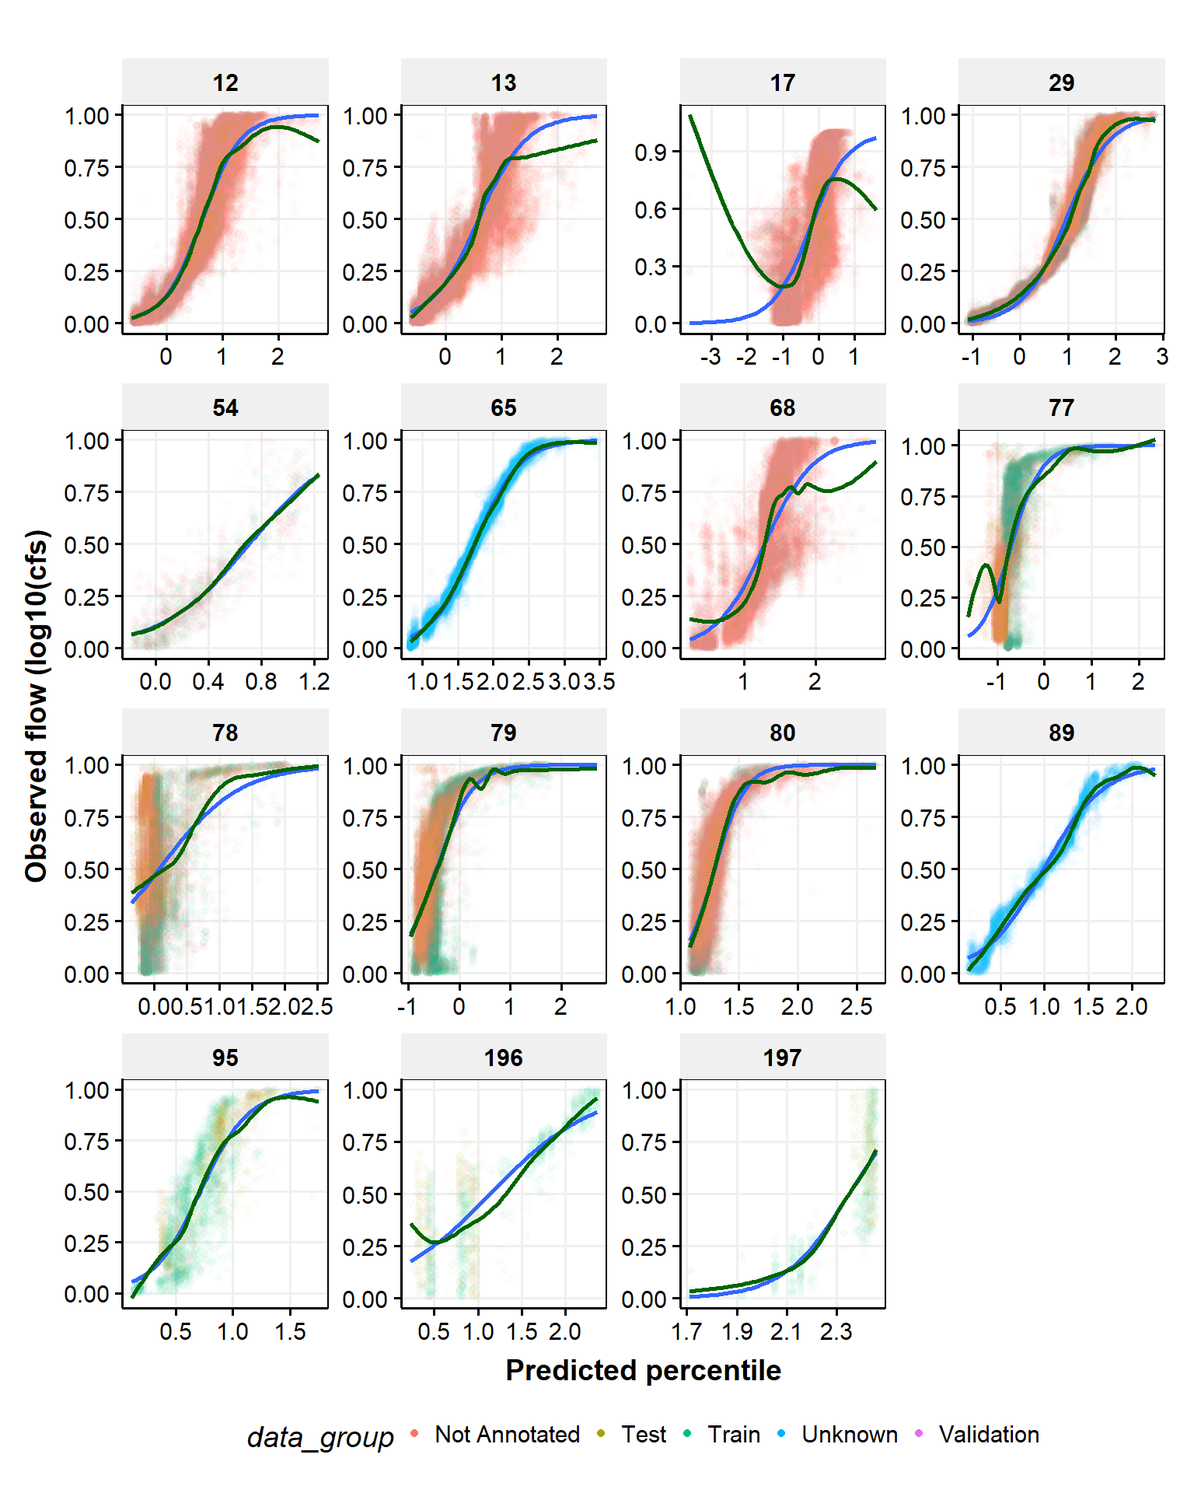
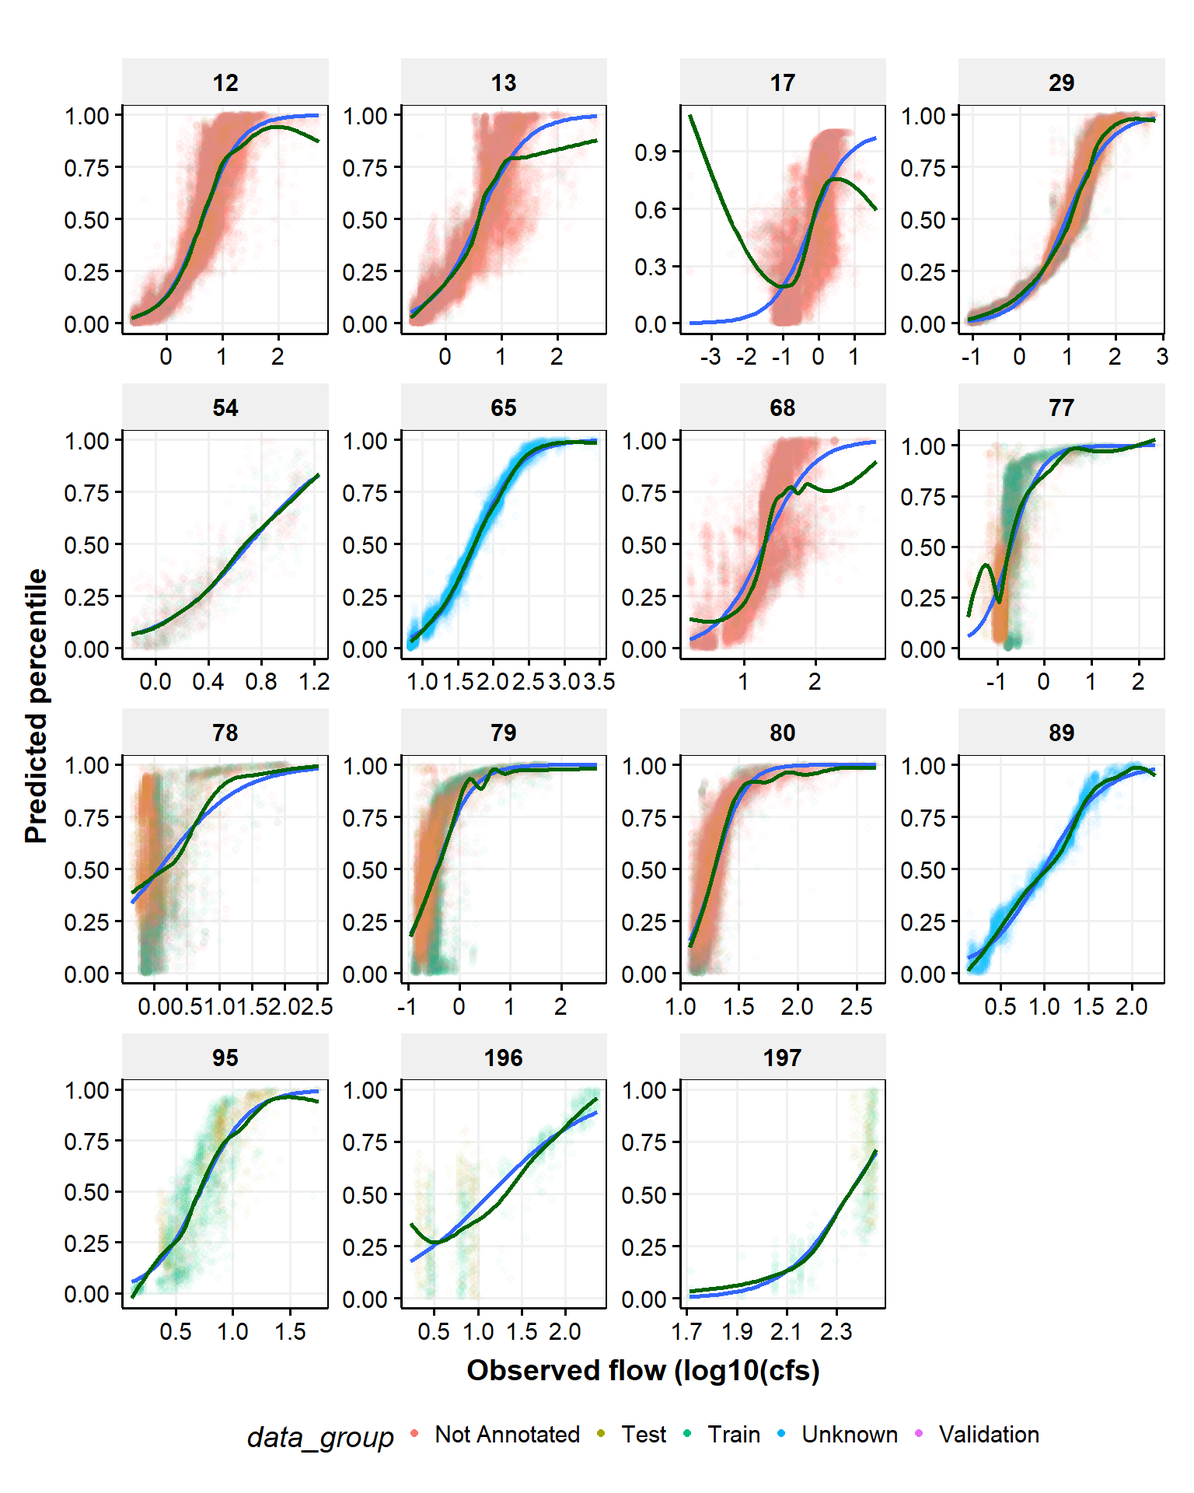
add filtered stations

Changed region(s): [[0.0, 0.3438, 0.0625, 0.5938], [0.375, 0.9062, 0.6875, 0.9375]]

diff --git a/docs/realData.html b/docs/realData.html
@@ -219,7 +219,7 @@ pre > code.sourceCode > span > a:first-child::before { text-decoration: underlin
 <section id="plot-raw-data" class="level2" data-number="2.2">
 <h2 data-number="2.2" class="anchored" data-anchor-id="plot-raw-data"><span class="header-section-number">2.2</span> Plot raw data</h2>
 <p>Logistic is blue line and gam is green line. Regressions are across data_group. Grouped by site.</p>
-<div class="cell" data-hash="realData_cache/html/plotRealData_356ca8d241ffc1034c24c87a13526d26">
+<div class="cell" data-hash="realData_cache/html/plotRealData_578f52c975b9ff7d29b6fa3e8dc725b2">
 <details>
 <summary>Code</summary>
 <div class="sourceCode cell-code" id="cb3"><pre class="sourceCode r code-with-copy"><code class="sourceCode r"><span id="cb3-1"><a href="#cb3-1" aria-hidden="true" tabindex="-1"></a><span class="fu">ggplot</span>(d <span class="sc">|&gt;</span> <span class="fu">filter</span>(<span class="sc">!</span><span class="fu">is.na</span>(flow_cfs_log10)), <span class="fu">aes</span>(flow_cfs_log10, rank_pred)) <span class="sc">+</span></span>
@@ -227,12 +227,37 @@ pre > code.sourceCode > span > a:first-child::before { text-decoration: underlin
 <span id="cb3-3"><a href="#cb3-3" aria-hidden="true" tabindex="-1"></a>  <span class="fu">guides</span>(<span class="at">color =</span> <span class="fu">guide_legend</span>(<span class="at">override.aes =</span> <span class="fu">list</span>(<span class="at">alpha =</span> <span class="dv">1</span>))) <span class="sc">+</span></span>
 <span id="cb3-4"><a href="#cb3-4" aria-hidden="true" tabindex="-1"></a>  <span class="fu">geom_smooth</span>(<span class="at">method =</span> <span class="st">"glm"</span>, <span class="at">method.args=</span> <span class="fu">list</span>(<span class="at">family=</span><span class="st">"binomial"</span>), <span class="at">se =</span> <span class="cn">FALSE</span>) <span class="sc">+</span></span>
 <span id="cb3-5"><a href="#cb3-5" aria-hidden="true" tabindex="-1"></a>  <span class="fu">geom_smooth</span>(<span class="at">color =</span> <span class="st">"darkgreen"</span>, <span class="at">se =</span> <span class="cn">FALSE</span>) <span class="sc">+</span></span>
-<span id="cb3-6"><a href="#cb3-6" aria-hidden="true" tabindex="-1"></a>  <span class="fu">labs</span>(<span class="at">x =</span> <span class="st">"Predicted percentile"</span>, <span class="at">y =</span> <span class="st">"Observed flow (log10(cfs)"</span>) <span class="sc">+</span></span>
+<span id="cb3-6"><a href="#cb3-6" aria-hidden="true" tabindex="-1"></a>  <span class="fu">labs</span>(<span class="at">y =</span> <span class="st">"Predicted percentile"</span>, <span class="at">x =</span> <span class="st">"Observed flow (log10(cfs)"</span>) <span class="sc">+</span></span>
 <span id="cb3-7"><a href="#cb3-7" aria-hidden="true" tabindex="-1"></a>  <span class="fu">theme_publication</span>() <span class="sc">+</span></span>
 <span id="cb3-8"><a href="#cb3-8" aria-hidden="true" tabindex="-1"></a>  <span class="fu">facet_wrap</span>(<span class="sc">~</span>station_id, <span class="at">scales =</span> <span class="st">"free"</span>)</span></code><button title="Copy to Clipboard" class="code-copy-button"><i class="bi"></i></button></pre></div>
 </details>
 <div class="cell-output-display">
 <p><img src="realData_files/figure-html/plotRealData-1.png" class="img-fluid" width="768"></p>
+</div>
+</div>
+<p>Pick sites that seem to have enough data to get predictions</p>
+<div class="cell" data-hash="realData_cache/html/filterSites_fba5d4454bc2bcc5d3436083b4334add">
+<details>
+<summary>Code</summary>
+<div class="sourceCode cell-code" id="cb4"><pre class="sourceCode r code-with-copy"><code class="sourceCode r"><span id="cb4-1"><a href="#cb4-1" aria-hidden="true" tabindex="-1"></a>stationsToUse <span class="ot">&lt;-</span> <span class="fu">c</span>(<span class="dv">12</span>, <span class="dv">29</span>, <span class="dv">65</span>, <span class="dv">80</span>)</span>
+<span id="cb4-2"><a href="#cb4-2" aria-hidden="true" tabindex="-1"></a></span>
+<span id="cb4-3"><a href="#cb4-3" aria-hidden="true" tabindex="-1"></a>d2 <span class="ot">&lt;-</span> d <span class="sc">|&gt;</span> </span>
+<span id="cb4-4"><a href="#cb4-4" aria-hidden="true" tabindex="-1"></a>  <span class="fu">filter</span>(</span>
+<span id="cb4-5"><a href="#cb4-5" aria-hidden="true" tabindex="-1"></a>    <span class="sc">!</span><span class="fu">is.na</span>(flow_cfs_log10), </span>
+<span id="cb4-6"><a href="#cb4-6" aria-hidden="true" tabindex="-1"></a>    station_id <span class="sc">%in%</span> stationsToUse</span>
+<span id="cb4-7"><a href="#cb4-7" aria-hidden="true" tabindex="-1"></a>  )</span>
+<span id="cb4-8"><a href="#cb4-8" aria-hidden="true" tabindex="-1"></a></span>
+<span id="cb4-9"><a href="#cb4-9" aria-hidden="true" tabindex="-1"></a><span class="fu">ggplot</span>(d2, <span class="fu">aes</span>(flow_cfs_log10, rank_pred)) <span class="sc">+</span></span>
+<span id="cb4-10"><a href="#cb4-10" aria-hidden="true" tabindex="-1"></a>  <span class="fu">geom_point</span>(<span class="fu">aes</span>(<span class="at">color =</span> data_group), <span class="at">alpha =</span> <span class="fl">0.025</span>) <span class="sc">+</span></span>
+<span id="cb4-11"><a href="#cb4-11" aria-hidden="true" tabindex="-1"></a>  <span class="fu">guides</span>(<span class="at">color =</span> <span class="fu">guide_legend</span>(<span class="at">override.aes =</span> <span class="fu">list</span>(<span class="at">alpha =</span> <span class="dv">1</span>))) <span class="sc">+</span></span>
+<span id="cb4-12"><a href="#cb4-12" aria-hidden="true" tabindex="-1"></a>  <span class="fu">geom_smooth</span>(<span class="at">method =</span> <span class="st">"glm"</span>, <span class="at">method.args=</span> <span class="fu">list</span>(<span class="at">family=</span><span class="st">"binomial"</span>), <span class="at">se =</span> <span class="cn">FALSE</span>) <span class="sc">+</span></span>
+<span id="cb4-13"><a href="#cb4-13" aria-hidden="true" tabindex="-1"></a>  <span class="fu">geom_smooth</span>(<span class="at">color =</span> <span class="st">"darkgreen"</span>, <span class="at">se =</span> <span class="cn">FALSE</span>) <span class="sc">+</span></span>
+<span id="cb4-14"><a href="#cb4-14" aria-hidden="true" tabindex="-1"></a>  <span class="fu">labs</span>(<span class="at">y =</span> <span class="st">"Predicted percentile"</span>, <span class="at">x =</span> <span class="st">"Observed flow (log10(cfs)"</span>) <span class="sc">+</span></span>
+<span id="cb4-15"><a href="#cb4-15" aria-hidden="true" tabindex="-1"></a>  <span class="fu">theme_publication</span>() <span class="sc">+</span></span>
+<span id="cb4-16"><a href="#cb4-16" aria-hidden="true" tabindex="-1"></a>  <span class="fu">facet_wrap</span>(<span class="sc">~</span>station_id, <span class="at">scales =</span> <span class="st">"free"</span>)</span></code><button title="Copy to Clipboard" class="code-copy-button"><i class="bi"></i></button></pre></div>
+</details>
+<div class="cell-output-display">
+<p><img src="realData_files/figure-html/filterSites-1.png" class="img-fluid" width="768"></p>
 </div>
 </div>
 
@@ -653,42 +678,65 @@ window.document.addEventListener("DOMContentLoaded", function (event) {
       </a>
   </div>
 </nav><div class="modal fade" id="quarto-embedded-source-code-modal" tabindex="-1" aria-labelledby="quarto-embedded-source-code-modal-label" aria-hidden="true"><div class="modal-dialog modal-dialog-scrollable"><div class="modal-content"><div class="modal-header"><h5 class="modal-title" id="quarto-embedded-source-code-modal-label">Source Code</h5><button class="btn-close" data-bs-dismiss="modal"></button></div><div class="modal-body"><div class="">
-<div class="sourceCode" id="cb4" data-shortcodes="false"><pre class="sourceCode markdown code-with-copy"><code class="sourceCode markdown"><span id="cb4-1"><a href="#cb4-1" aria-hidden="true" tabindex="-1"></a><span class="in">```{r}</span></span>
-<span id="cb4-2"><a href="#cb4-2" aria-hidden="true" tabindex="-1"></a><span class="co">#| label: librariesSim</span></span>
-<span id="cb4-3"><a href="#cb4-3" aria-hidden="true" tabindex="-1"></a></span>
-<span id="cb4-4"><a href="#cb4-4" aria-hidden="true" tabindex="-1"></a><span class="fu">library</span>(FAdist)</span>
-<span id="cb4-5"><a href="#cb4-5" aria-hidden="true" tabindex="-1"></a><span class="fu">library</span>(getPrepareWBData)</span>
-<span id="cb4-6"><a href="#cb4-6" aria-hidden="true" tabindex="-1"></a><span class="fu">library</span>(ggpubr)</span>
-<span id="cb4-7"><a href="#cb4-7" aria-hidden="true" tabindex="-1"></a><span class="fu">library</span>(tidyverse)</span>
-<span id="cb4-8"><a href="#cb4-8" aria-hidden="true" tabindex="-1"></a><span class="in">```</span></span>
-<span id="cb4-9"><a href="#cb4-9" aria-hidden="true" tabindex="-1"></a></span>
-<span id="cb4-10"><a href="#cb4-10" aria-hidden="true" tabindex="-1"></a></span>
-<span id="cb4-11"><a href="#cb4-11" aria-hidden="true" tabindex="-1"></a><span class="fu"># Real data  </span></span>
-<span id="cb4-12"><a href="#cb4-12" aria-hidden="true" tabindex="-1"></a><span class="fu">## Get data</span></span>
-<span id="cb4-15"><a href="#cb4-15" aria-hidden="true" tabindex="-1"></a><span class="in">```{r}</span></span>
-<span id="cb4-16"><a href="#cb4-16" aria-hidden="true" tabindex="-1"></a><span class="co">#| label: getRealData</span></span>
-<span id="cb4-17"><a href="#cb4-17" aria-hidden="true" tabindex="-1"></a></span>
-<span id="cb4-18"><a href="#cb4-18" aria-hidden="true" tabindex="-1"></a>d <span class="ot">&lt;-</span> <span class="fu">read.csv</span>(<span class="st">'./data/in/concatenated_predictions.csv'</span>) <span class="sc">|&gt;</span> </span>
-<span id="cb4-19"><a href="#cb4-19" aria-hidden="true" tabindex="-1"></a>  <span class="fu">mutate</span>(<span class="at">flow_cfs_log10 =</span> <span class="fu">log10</span>(flow_cfs))</span>
-<span id="cb4-20"><a href="#cb4-20" aria-hidden="true" tabindex="-1"></a></span>
-<span id="cb4-21"><a href="#cb4-21" aria-hidden="true" tabindex="-1"></a><span class="in">```</span></span>
-<span id="cb4-22"><a href="#cb4-22" aria-hidden="true" tabindex="-1"></a></span>
-<span id="cb4-23"><a href="#cb4-23" aria-hidden="true" tabindex="-1"></a><span class="fu">## Plot raw data  </span></span>
-<span id="cb4-24"><a href="#cb4-24" aria-hidden="true" tabindex="-1"></a>Logistic is blue line and gam is green line. Regressions are across data_group. Grouped by site.  </span>
-<span id="cb4-27"><a href="#cb4-27" aria-hidden="true" tabindex="-1"></a><span class="in">```{r}</span></span>
-<span id="cb4-28"><a href="#cb4-28" aria-hidden="true" tabindex="-1"></a><span class="co">#| label: plotRealData</span></span>
-<span id="cb4-29"><a href="#cb4-29" aria-hidden="true" tabindex="-1"></a><span class="co">#| fig-height: 10</span></span>
-<span id="cb4-30"><a href="#cb4-30" aria-hidden="true" tabindex="-1"></a></span>
-<span id="cb4-31"><a href="#cb4-31" aria-hidden="true" tabindex="-1"></a><span class="fu">ggplot</span>(d <span class="sc">|&gt;</span> <span class="fu">filter</span>(<span class="sc">!</span><span class="fu">is.na</span>(flow_cfs_log10)), <span class="fu">aes</span>(flow_cfs_log10, rank_pred)) <span class="sc">+</span></span>
-<span id="cb4-32"><a href="#cb4-32" aria-hidden="true" tabindex="-1"></a>  <span class="fu">geom_point</span>(<span class="fu">aes</span>(<span class="at">color =</span> data_group), <span class="at">alpha =</span> <span class="fl">0.025</span>) <span class="sc">+</span></span>
-<span id="cb4-33"><a href="#cb4-33" aria-hidden="true" tabindex="-1"></a>  <span class="fu">guides</span>(<span class="at">color =</span> <span class="fu">guide_legend</span>(<span class="at">override.aes =</span> <span class="fu">list</span>(<span class="at">alpha =</span> <span class="dv">1</span>))) <span class="sc">+</span></span>
-<span id="cb4-34"><a href="#cb4-34" aria-hidden="true" tabindex="-1"></a>  <span class="fu">geom_smooth</span>(<span class="at">method =</span> <span class="st">"glm"</span>, <span class="at">method.args=</span> <span class="fu">list</span>(<span class="at">family=</span><span class="st">"binomial"</span>), <span class="at">se =</span> <span class="cn">FALSE</span>) <span class="sc">+</span></span>
-<span id="cb4-35"><a href="#cb4-35" aria-hidden="true" tabindex="-1"></a>  <span class="fu">geom_smooth</span>(<span class="at">color =</span> <span class="st">"darkgreen"</span>, <span class="at">se =</span> <span class="cn">FALSE</span>) <span class="sc">+</span></span>
-<span id="cb4-36"><a href="#cb4-36" aria-hidden="true" tabindex="-1"></a>  <span class="fu">labs</span>(<span class="at">x =</span> <span class="st">"Predicted percentile"</span>, <span class="at">y =</span> <span class="st">"Observed flow (log10(cfs)"</span>) <span class="sc">+</span></span>
-<span id="cb4-37"><a href="#cb4-37" aria-hidden="true" tabindex="-1"></a>  <span class="fu">theme_publication</span>() <span class="sc">+</span></span>
-<span id="cb4-38"><a href="#cb4-38" aria-hidden="true" tabindex="-1"></a>  <span class="fu">facet_wrap</span>(<span class="sc">~</span>station_id, <span class="at">scales =</span> <span class="st">"free"</span>)</span>
-<span id="cb4-39"><a href="#cb4-39" aria-hidden="true" tabindex="-1"></a></span>
-<span id="cb4-40"><a href="#cb4-40" aria-hidden="true" tabindex="-1"></a><span class="in">```</span></span>
+<div class="sourceCode" id="cb5" data-shortcodes="false"><pre class="sourceCode markdown code-with-copy"><code class="sourceCode markdown"><span id="cb5-1"><a href="#cb5-1" aria-hidden="true" tabindex="-1"></a><span class="in">```{r}</span></span>
+<span id="cb5-2"><a href="#cb5-2" aria-hidden="true" tabindex="-1"></a><span class="co">#| label: librariesSim</span></span>
+<span id="cb5-3"><a href="#cb5-3" aria-hidden="true" tabindex="-1"></a></span>
+<span id="cb5-4"><a href="#cb5-4" aria-hidden="true" tabindex="-1"></a><span class="fu">library</span>(FAdist)</span>
+<span id="cb5-5"><a href="#cb5-5" aria-hidden="true" tabindex="-1"></a><span class="fu">library</span>(getPrepareWBData)</span>
+<span id="cb5-6"><a href="#cb5-6" aria-hidden="true" tabindex="-1"></a><span class="fu">library</span>(ggpubr)</span>
+<span id="cb5-7"><a href="#cb5-7" aria-hidden="true" tabindex="-1"></a><span class="fu">library</span>(tidyverse)</span>
+<span id="cb5-8"><a href="#cb5-8" aria-hidden="true" tabindex="-1"></a><span class="in">```</span></span>
+<span id="cb5-9"><a href="#cb5-9" aria-hidden="true" tabindex="-1"></a></span>
+<span id="cb5-10"><a href="#cb5-10" aria-hidden="true" tabindex="-1"></a></span>
+<span id="cb5-11"><a href="#cb5-11" aria-hidden="true" tabindex="-1"></a><span class="fu"># Real data  </span></span>
+<span id="cb5-12"><a href="#cb5-12" aria-hidden="true" tabindex="-1"></a><span class="fu">## Get data</span></span>
+<span id="cb5-15"><a href="#cb5-15" aria-hidden="true" tabindex="-1"></a><span class="in">```{r}</span></span>
+<span id="cb5-16"><a href="#cb5-16" aria-hidden="true" tabindex="-1"></a><span class="co">#| label: getRealData</span></span>
+<span id="cb5-17"><a href="#cb5-17" aria-hidden="true" tabindex="-1"></a></span>
+<span id="cb5-18"><a href="#cb5-18" aria-hidden="true" tabindex="-1"></a>d <span class="ot">&lt;-</span> <span class="fu">read.csv</span>(<span class="st">'./data/in/concatenated_predictions.csv'</span>) <span class="sc">|&gt;</span> </span>
+<span id="cb5-19"><a href="#cb5-19" aria-hidden="true" tabindex="-1"></a>  <span class="fu">mutate</span>(<span class="at">flow_cfs_log10 =</span> <span class="fu">log10</span>(flow_cfs))</span>
+<span id="cb5-20"><a href="#cb5-20" aria-hidden="true" tabindex="-1"></a></span>
+<span id="cb5-21"><a href="#cb5-21" aria-hidden="true" tabindex="-1"></a><span class="in">```</span></span>
+<span id="cb5-22"><a href="#cb5-22" aria-hidden="true" tabindex="-1"></a></span>
+<span id="cb5-23"><a href="#cb5-23" aria-hidden="true" tabindex="-1"></a><span class="fu">## Plot raw data  </span></span>
+<span id="cb5-24"><a href="#cb5-24" aria-hidden="true" tabindex="-1"></a>Logistic is blue line and gam is green line. Regressions are across data_group. Grouped by site.  </span>
+<span id="cb5-27"><a href="#cb5-27" aria-hidden="true" tabindex="-1"></a><span class="in">```{r}</span></span>
+<span id="cb5-28"><a href="#cb5-28" aria-hidden="true" tabindex="-1"></a><span class="co">#| label: plotRealData</span></span>
+<span id="cb5-29"><a href="#cb5-29" aria-hidden="true" tabindex="-1"></a><span class="co">#| fig-height: 10</span></span>
+<span id="cb5-30"><a href="#cb5-30" aria-hidden="true" tabindex="-1"></a></span>
+<span id="cb5-31"><a href="#cb5-31" aria-hidden="true" tabindex="-1"></a><span class="fu">ggplot</span>(d <span class="sc">|&gt;</span> <span class="fu">filter</span>(<span class="sc">!</span><span class="fu">is.na</span>(flow_cfs_log10)), <span class="fu">aes</span>(flow_cfs_log10, rank_pred)) <span class="sc">+</span></span>
+<span id="cb5-32"><a href="#cb5-32" aria-hidden="true" tabindex="-1"></a>  <span class="fu">geom_point</span>(<span class="fu">aes</span>(<span class="at">color =</span> data_group), <span class="at">alpha =</span> <span class="fl">0.025</span>) <span class="sc">+</span></span>
+<span id="cb5-33"><a href="#cb5-33" aria-hidden="true" tabindex="-1"></a>  <span class="fu">guides</span>(<span class="at">color =</span> <span class="fu">guide_legend</span>(<span class="at">override.aes =</span> <span class="fu">list</span>(<span class="at">alpha =</span> <span class="dv">1</span>))) <span class="sc">+</span></span>
+<span id="cb5-34"><a href="#cb5-34" aria-hidden="true" tabindex="-1"></a>  <span class="fu">geom_smooth</span>(<span class="at">method =</span> <span class="st">"glm"</span>, <span class="at">method.args=</span> <span class="fu">list</span>(<span class="at">family=</span><span class="st">"binomial"</span>), <span class="at">se =</span> <span class="cn">FALSE</span>) <span class="sc">+</span></span>
+<span id="cb5-35"><a href="#cb5-35" aria-hidden="true" tabindex="-1"></a>  <span class="fu">geom_smooth</span>(<span class="at">color =</span> <span class="st">"darkgreen"</span>, <span class="at">se =</span> <span class="cn">FALSE</span>) <span class="sc">+</span></span>
+<span id="cb5-36"><a href="#cb5-36" aria-hidden="true" tabindex="-1"></a>  <span class="fu">labs</span>(<span class="at">y =</span> <span class="st">"Predicted percentile"</span>, <span class="at">x =</span> <span class="st">"Observed flow (log10(cfs)"</span>) <span class="sc">+</span></span>
+<span id="cb5-37"><a href="#cb5-37" aria-hidden="true" tabindex="-1"></a>  <span class="fu">theme_publication</span>() <span class="sc">+</span></span>
+<span id="cb5-38"><a href="#cb5-38" aria-hidden="true" tabindex="-1"></a>  <span class="fu">facet_wrap</span>(<span class="sc">~</span>station_id, <span class="at">scales =</span> <span class="st">"free"</span>)</span>
+<span id="cb5-39"><a href="#cb5-39" aria-hidden="true" tabindex="-1"></a></span>
+<span id="cb5-40"><a href="#cb5-40" aria-hidden="true" tabindex="-1"></a><span class="in">```</span></span>
+<span id="cb5-41"><a href="#cb5-41" aria-hidden="true" tabindex="-1"></a></span>
+<span id="cb5-42"><a href="#cb5-42" aria-hidden="true" tabindex="-1"></a>Pick sites that seem to have enough data to get predictions</span>
+<span id="cb5-45"><a href="#cb5-45" aria-hidden="true" tabindex="-1"></a><span class="in">```{r}</span></span>
+<span id="cb5-46"><a href="#cb5-46" aria-hidden="true" tabindex="-1"></a><span class="co">#| label: filterSites</span></span>
+<span id="cb5-47"><a href="#cb5-47" aria-hidden="true" tabindex="-1"></a></span>
+<span id="cb5-48"><a href="#cb5-48" aria-hidden="true" tabindex="-1"></a>stationsToUse <span class="ot">&lt;-</span> <span class="fu">c</span>(<span class="dv">12</span>, <span class="dv">29</span>, <span class="dv">65</span>, <span class="dv">80</span>)</span>
+<span id="cb5-49"><a href="#cb5-49" aria-hidden="true" tabindex="-1"></a></span>
+<span id="cb5-50"><a href="#cb5-50" aria-hidden="true" tabindex="-1"></a>d2 <span class="ot">&lt;-</span> d <span class="sc">|&gt;</span> </span>
+<span id="cb5-51"><a href="#cb5-51" aria-hidden="true" tabindex="-1"></a>  <span class="fu">filter</span>(</span>
+<span id="cb5-52"><a href="#cb5-52" aria-hidden="true" tabindex="-1"></a>    <span class="sc">!</span><span class="fu">is.na</span>(flow_cfs_log10), </span>
+<span id="cb5-53"><a href="#cb5-53" aria-hidden="true" tabindex="-1"></a>    station_id <span class="sc">%in%</span> stationsToUse</span>
+<span id="cb5-54"><a href="#cb5-54" aria-hidden="true" tabindex="-1"></a>  )</span>
+<span id="cb5-55"><a href="#cb5-55" aria-hidden="true" tabindex="-1"></a></span>
+<span id="cb5-56"><a href="#cb5-56" aria-hidden="true" tabindex="-1"></a><span class="fu">ggplot</span>(d2, <span class="fu">aes</span>(flow_cfs_log10, rank_pred)) <span class="sc">+</span></span>
+<span id="cb5-57"><a href="#cb5-57" aria-hidden="true" tabindex="-1"></a>  <span class="fu">geom_point</span>(<span class="fu">aes</span>(<span class="at">color =</span> data_group), <span class="at">alpha =</span> <span class="fl">0.025</span>) <span class="sc">+</span></span>
+<span id="cb5-58"><a href="#cb5-58" aria-hidden="true" tabindex="-1"></a>  <span class="fu">guides</span>(<span class="at">color =</span> <span class="fu">guide_legend</span>(<span class="at">override.aes =</span> <span class="fu">list</span>(<span class="at">alpha =</span> <span class="dv">1</span>))) <span class="sc">+</span></span>
+<span id="cb5-59"><a href="#cb5-59" aria-hidden="true" tabindex="-1"></a>  <span class="fu">geom_smooth</span>(<span class="at">method =</span> <span class="st">"glm"</span>, <span class="at">method.args=</span> <span class="fu">list</span>(<span class="at">family=</span><span class="st">"binomial"</span>), <span class="at">se =</span> <span class="cn">FALSE</span>) <span class="sc">+</span></span>
+<span id="cb5-60"><a href="#cb5-60" aria-hidden="true" tabindex="-1"></a>  <span class="fu">geom_smooth</span>(<span class="at">color =</span> <span class="st">"darkgreen"</span>, <span class="at">se =</span> <span class="cn">FALSE</span>) <span class="sc">+</span></span>
+<span id="cb5-61"><a href="#cb5-61" aria-hidden="true" tabindex="-1"></a>  <span class="fu">labs</span>(<span class="at">y =</span> <span class="st">"Predicted percentile"</span>, <span class="at">x =</span> <span class="st">"Observed flow (log10(cfs)"</span>) <span class="sc">+</span></span>
+<span id="cb5-62"><a href="#cb5-62" aria-hidden="true" tabindex="-1"></a>  <span class="fu">theme_publication</span>() <span class="sc">+</span></span>
+<span id="cb5-63"><a href="#cb5-63" aria-hidden="true" tabindex="-1"></a>  <span class="fu">facet_wrap</span>(<span class="sc">~</span>station_id, <span class="at">scales =</span> <span class="st">"free"</span>)</span>
+<span id="cb5-64"><a href="#cb5-64" aria-hidden="true" tabindex="-1"></a></span>
+<span id="cb5-65"><a href="#cb5-65" aria-hidden="true" tabindex="-1"></a><span class="in">```</span></span>
 </code><button title="Copy to Clipboard" class="code-copy-button"><i class="bi"></i></button></pre></div>
 </div></div></div></div></div>
 </div> <!-- /content -->
